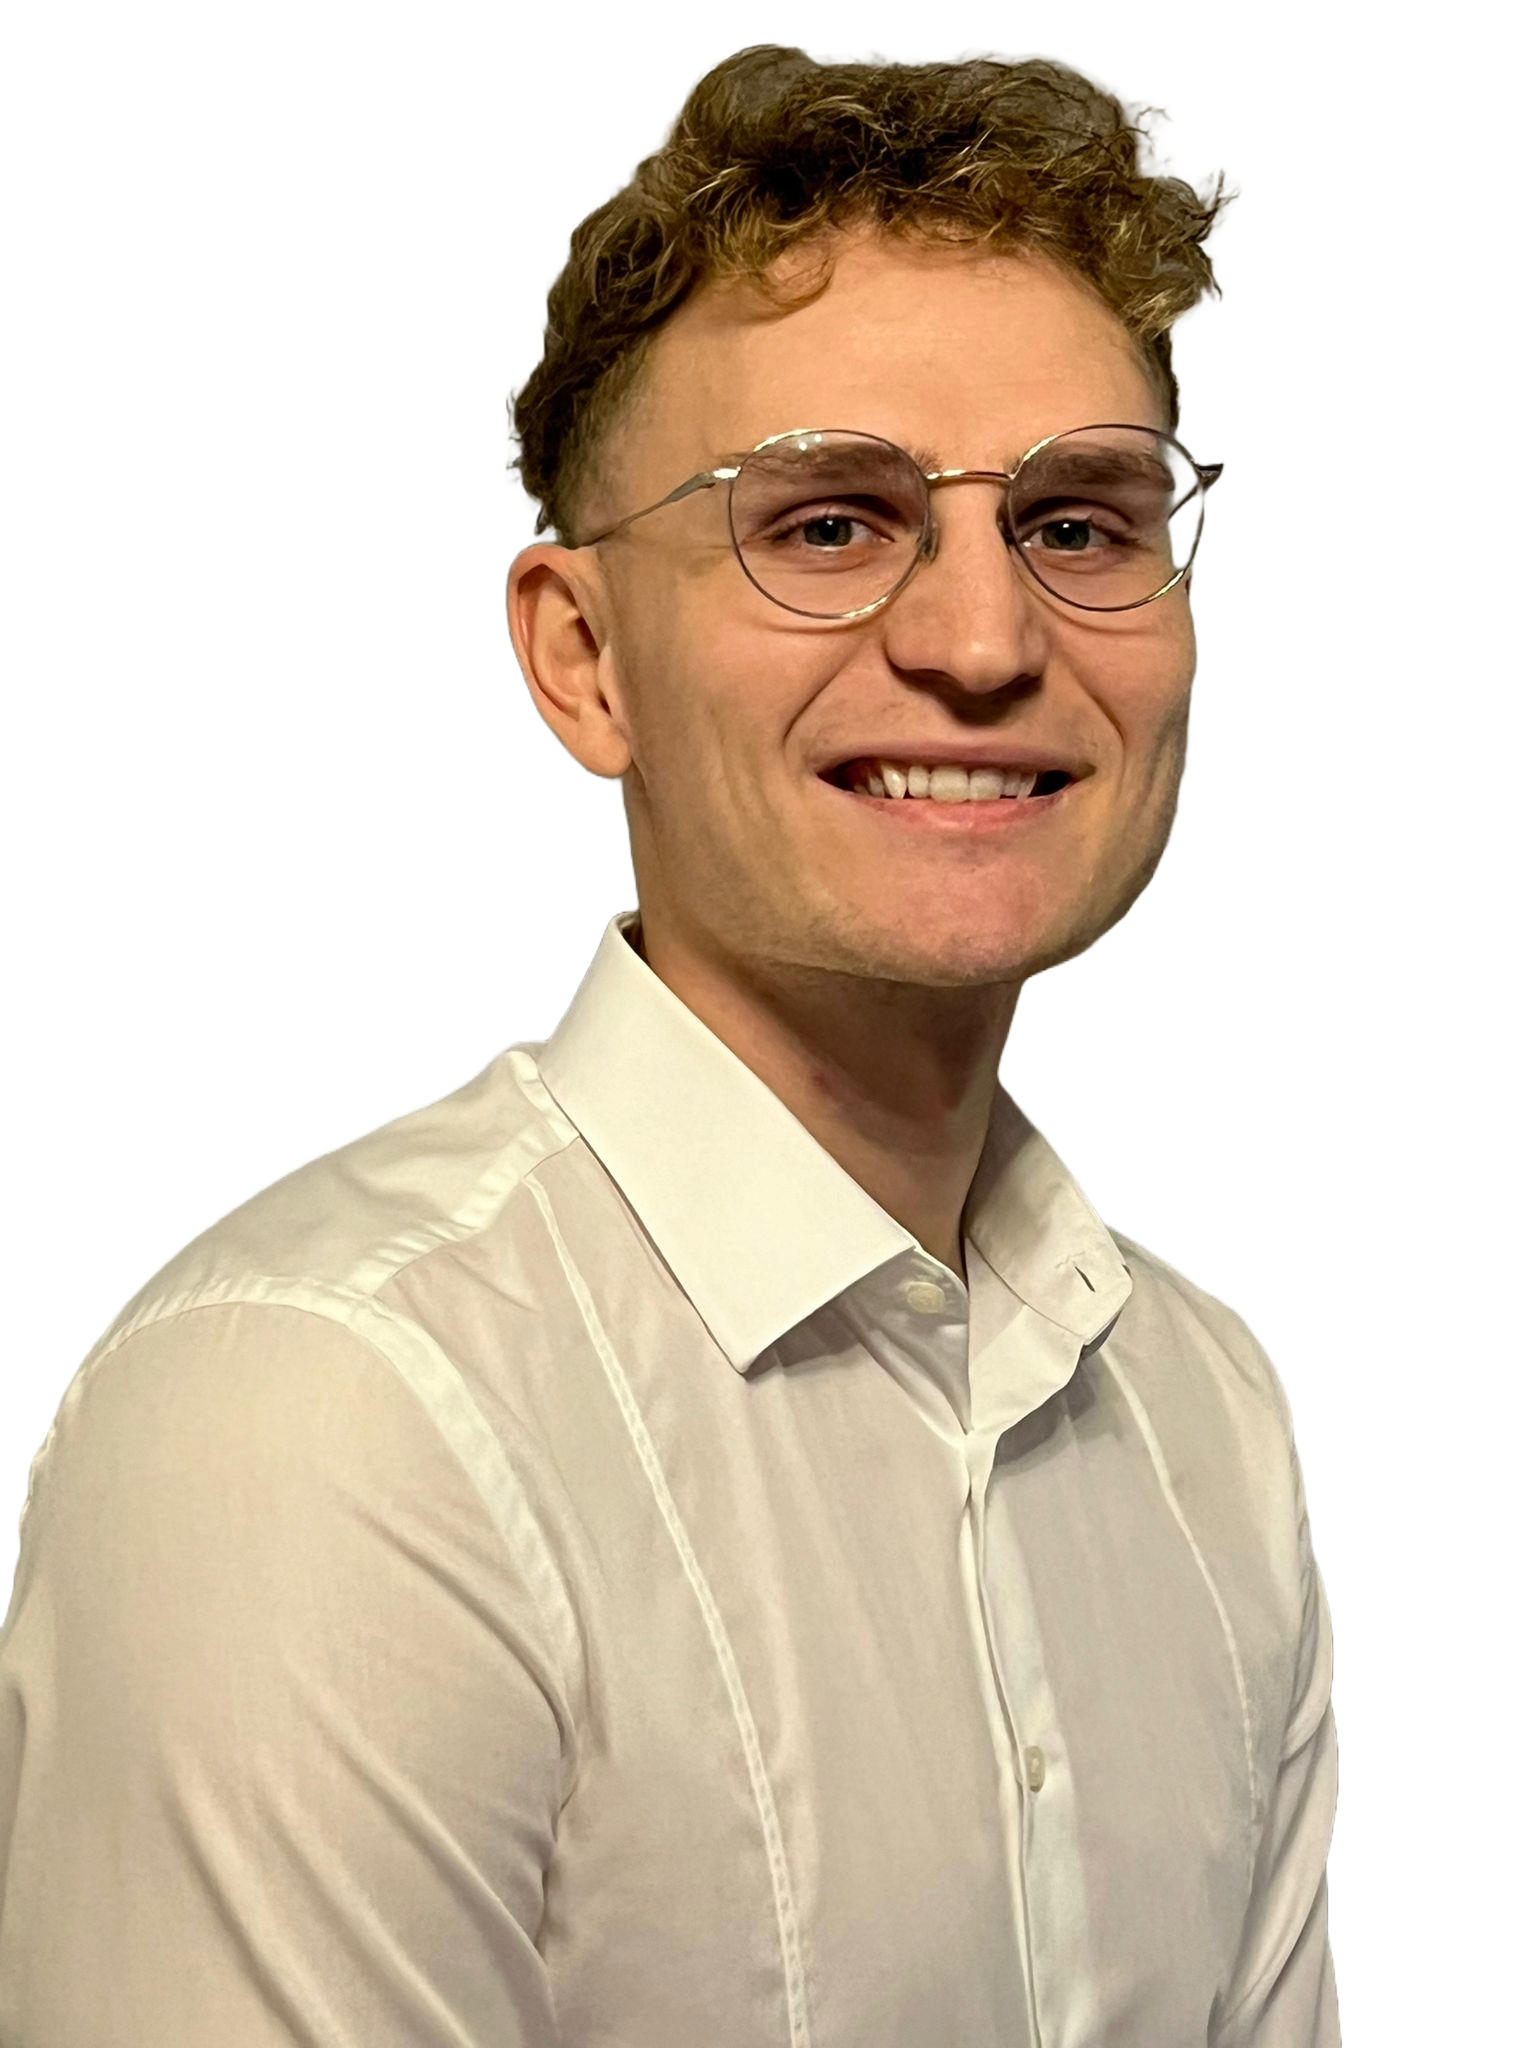
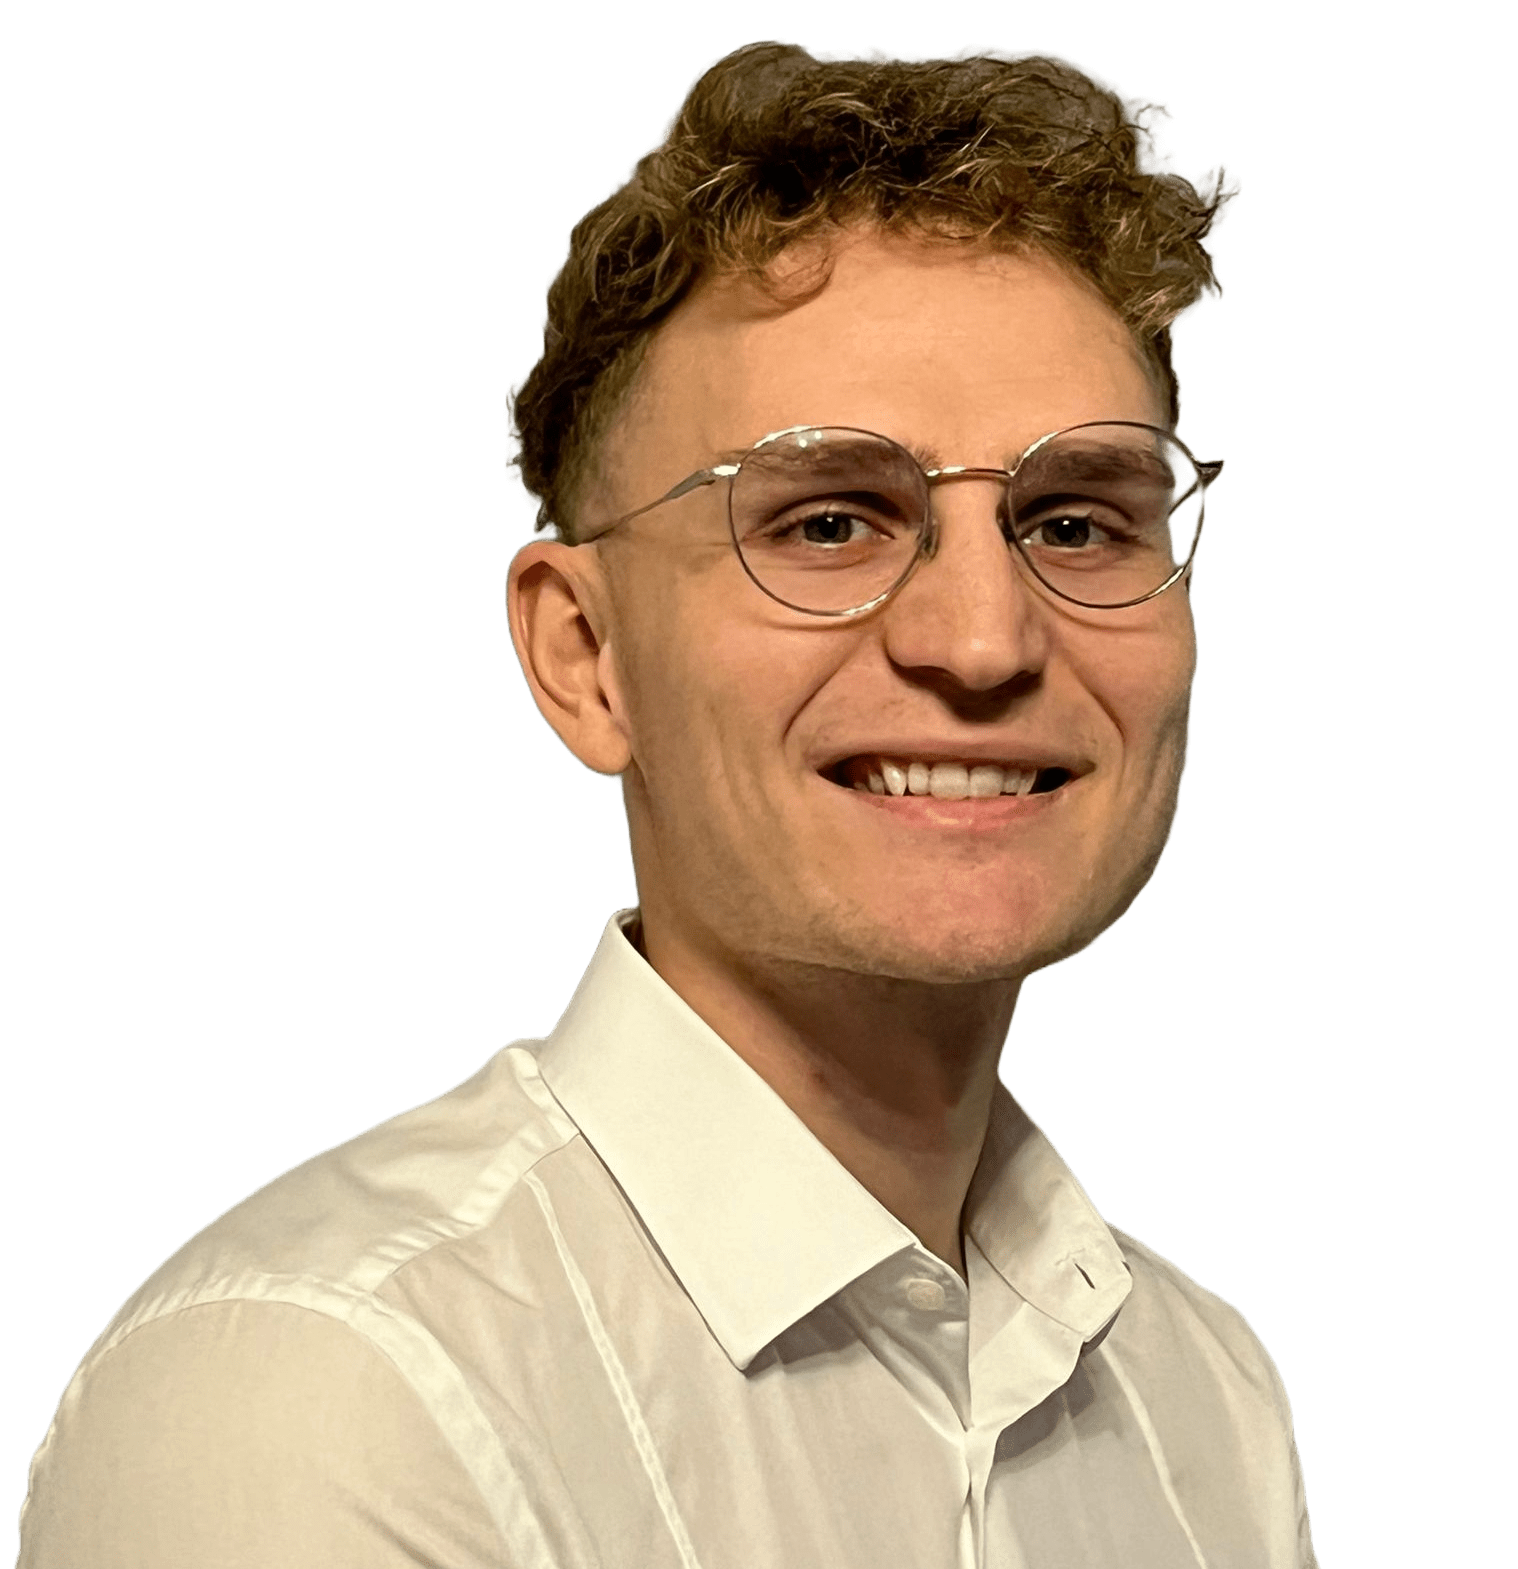
changed pictures

diff --git a/src/app/about-me/about-me.component.html b/src/app/about-me/about-me.component.html
@@ -3,7 +3,7 @@
         <span>About me</span>
 
         <div class="about-me-text">
-            I am a german software developer, specializing in JavaScript, Angular, CSS, and HTML. My passion lies in
+            I am a German software developer with a background in electrical engineering, specializing in JavaScript, Angular, CSS, and HTML. My passion lies in
             creating top-notch web applications that are both technically robust and user-friendly. With my expertise
             and a focus on appealing design, I develop innovative solutions. I am ready to collaborate on creating great
             projects together!
@@ -27,7 +27,7 @@
 
     </div>
     <div class="right-container">
-        <img src="./assets/img/profile-picture/profilbild3.png" alt="">
+        <img src="./assets/img/profile-picture/profilbild2.png" alt="">
         <div class="green-line"></div>
     </div>
     <img class="purple-shadow" src="./assets/img/shadows/purple_shadow_1.png" alt="">

diff --git a/src/app/project/project.component.html b/src/app/project/project.component.html
@@ -10,7 +10,7 @@
                 users and categories</div>
             <div></div>
             <div class="button-container">
-                <a href="https://alexander-gerzen.developerakademie.net/Join/login.html" target="_blank"><button class="live-test" mat-raised-button>Live test</button></a>
+                <a href="https://alex-gerzen.de/Join/login.html" target="_blank"><button class="live-test" mat-raised-button>Live test</button></a>
                 <a href="https://github.com/AlexGerzen/Join" target="_blank"><button class="github" mat-stroked-button>Github</button></a>
             </div>
         </div>
